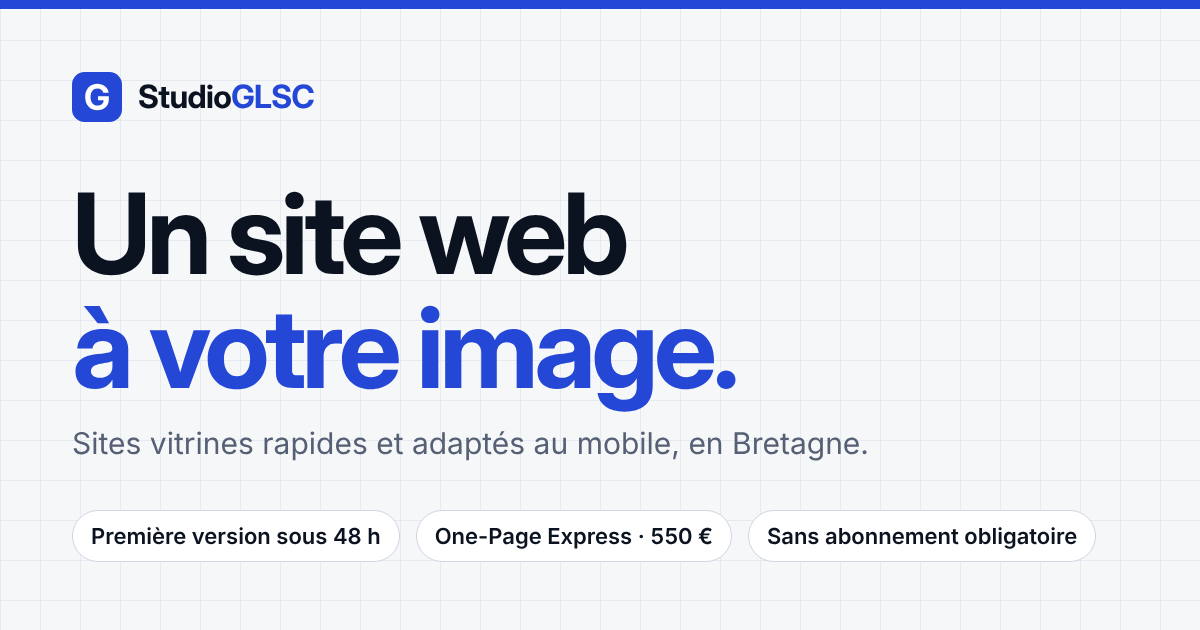
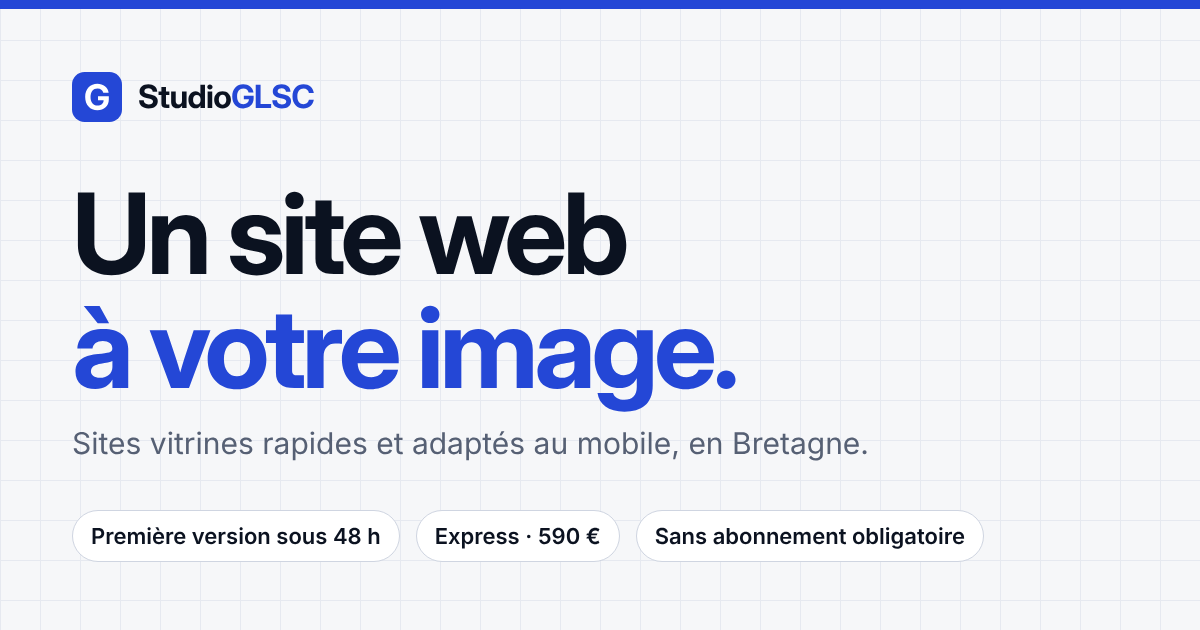
Offre : films, tests et documentation alignés sur les nouveaux prix

Changed region(s): [[0.37, 0.8143, 0.8942, 0.9048]]

diff --git a/promo/promo.css b/promo/promo.css
@@ -62,9 +62,10 @@ html, body { width: 1920px; height: 1080px; overflow: hidden; background: #000; 
 /* scène F */
 .prices { position: absolute; left: 120px; right: 120px; top: 330px; display: flex; gap: 36px; }
 .pc { flex: 1; padding: 56px 52px; border-radius: 48px; background: #fff; border: 2px solid var(--line); box-shadow: 0 30px 70px rgba(36,71,214,.12); }
-.pc:first-child { border-color: var(--blue); box-shadow: 0 0 0 10px rgba(36,71,214,.10), 0 40px 90px rgba(36,71,214,.22); }
+.pc { position: relative; } .pc:nth-child(2) { border-color: var(--blue); box-shadow: 0 0 0 10px rgba(36,71,214,.10), 0 40px 90px rgba(36,71,214,.22); }
+.pb { position: absolute; top: -26px; left: 52px; padding: 12px 24px; border-radius: 999px; background: var(--blue); color: #fff; font: 600 28px/1 "Inter"; letter-spacing: .02em; }
 .pn { font: 600 38px/1.1 "ID"; color: var(--muted); letter-spacing: -.02em; } .pv { margin-top: 26px; font: 700 190px/1 "ID"; letter-spacing: -.06em; color: var(--ink); white-space: nowrap; } .pv i { font-style: normal; font-size: 120px; margin-left: 10px; letter-spacing: -.02em; color: var(--blue); } .pv u { text-decoration: none; display: block; font: 600 40px/1 "Inter"; letter-spacing: 0; color: var(--muted); margin-bottom: 8px; }
-.pc:first-child .pv { margin-top: 26px; padding-top: 52px; } .pd { margin-top: 24px; font: 500 34px/1.3 "Inter"; color: var(--muted); }
+.pc:nth-child(-n+2) .pv { margin-top: 26px; padding-top: 52px; } .pd { margin-top: 24px; font: 500 34px/1.3 "Inter"; color: var(--muted); }
 .foot { position: absolute; left: 0; right: 0; bottom: 84px; text-align: center; font: 500 40px/1.3 "Inter"; color: var(--muted); }
 
 /* scène G */
@@ -100,7 +101,7 @@ html.v, html.v body { width: 1080px; height: 1920px; } html.v #stage { width: 10
 .v .mid { font-size: 112px; top: 150px; padding: 0 50px; } .v #eTitle { font-size: 108px; top: 150px; } .v .mid .ln { white-space: normal; }
 .v .cards { top: 470px; height: 1400px; } .v .card { width: 900px; height: 500px; border-radius: 40px; } .v .card .win { height: 300px; left: 20px; right: 20px; top: 20px; border-radius: 24px; } .v .card h3 { top: 336px; font-size: 46px; left: 32px; } .v .card p { top: 396px; font-size: 27px; left: 32px; right: 32px; }
 .v .prices { flex-direction: column; left: 70px; right: 70px; top: 420px; gap: 24px; } .v .pc { padding: 30px 44px; display: grid; grid-template-columns: 1fr auto; align-items: center; column-gap: 24px; }
-.v .pn { grid-column: 1; font-size: 34px; } .v .pd { grid-column: 1; margin-top: 8px; font-size: 28px; } .v .pv { grid-column: 2; grid-row: 1 / span 2; margin: 0; font-size: 130px; text-align: right; } .v .pv u { font-size: 30px; margin-bottom: 0; } .v .pv i { font-size: 80px; } .v .pc:first-child .pv { padding-top: 0; }
+.v .pn { grid-column: 1; font-size: 34px; } .v .pd { grid-column: 1; margin-top: 8px; font-size: 28px; } .v .pv { grid-column: 2; grid-row: 1 / span 2; margin: 0; font-size: 130px; text-align: right; } .v .pv u { font-size: 30px; margin-bottom: 0; } .v .pv i { font-size: 80px; } .v .pc:nth-child(-n+2) .pv { padding-top: 0; } .v .pb { top: -20px; left: 44px; font-size: 24px; padding: 10px 20px; }
 .v .foot { bottom: 150px; font-size: 34px; padding: 0 70px; }
 .v .cta { top: 1060px; font-size: 42px; padding: 30px 40px; gap: 16px; } .v .cta em { font-size: 28px; padding: 10px 16px; } .v .cta .ico { width: 44px; height: 44px; }
 .v .mark { width: 150px; height: 150px; } .v .word { font-size: 138px; } .v .logo { margin-top: -200px; height: 160px; gap: 26px; } .v .tag { top: 1130px; font-size: 48px; padding: 0 60px; } .v .url { top: 1260px; font-size: 40px; }

diff --git a/index.html b/index.html
@@ -25,7 +25,7 @@
   <link rel="preload" href="/assets/fonts/inter-400.woff2" as="font" type="font/woff2" crossorigin>
   <link rel="preload" href="/assets/fonts/inter-display-700.woff2" as="font" type="font/woff2" crossorigin>
   <link rel="stylesheet" href="/assets/studio.css?v=ae4d0bea">
-  <link rel="stylesheet" href="/assets/offres.css?v=f0f5ca21">
+  <link rel="stylesheet" href="/assets/offres.css?v=04af5560">
   <link rel="stylesheet" href="/assets/fx.css?v=e1f2f212">
   <script src="/assets/theme-init.js?v=74add099"></script>
   <script src="/assets/fx.js?v=f253bbf4"></script>
@@ -191,7 +191,7 @@
       </div>
     </section>
 
-    <div class="fx-ticker" aria-hidden="true"><div class="fx-ticker-track"><span>Sites vitrines</span><span>Sur mesure</span><span>Mobile d’abord</span><span>Sans abonnement obligatoire</span><span>E-commerce</span><span>Première version en 48 h</span><span>Réponse directe</span><span>Vous êtes propriétaire</span><span>Bretagne</span></div></div>
+    <div class="fx-ticker" aria-hidden="true"><div class="fx-ticker-track"><span>Sites vitrines</span><span>Sur mesure</span><span>Mobile d’abord</span><span>Sans abonnement obligatoire</span><span>Boutique en ligne</span><span>Première version en 48 h</span><span>Réponse directe</span><span>Vous êtes propriétaire</span><span>Bretagne</span></div></div>
 
     <section id="services" class="section">
       <div class="wrap">
@@ -236,7 +236,7 @@
             <p class="price"><small>dès</small> 990 €</p>
             <p class="price-quote">Sur devis</p>
             <p class="price-desc">Plusieurs pages pour présenter vos services, vos réalisations et vos tarifs, ou moderniser un site existant.</p>
-            <ul class="check-list"><li><svg class="icon" aria-hidden="true"><use href="#i-check"/></svg>Jusqu’à 10 pages (services, réalisations, tarifs, contact…)</li><li><svg class="icon" aria-hidden="true"><use href="#i-check"/></svg>Référencement local et vitesse optimisés</li><li><svg class="icon" aria-hidden="true"><use href="#i-check"/></svg>Fiche Google Business Profile optimisée</li><li><svg class="icon" aria-hidden="true"><use href="#i-check"/></svg>Retouche de vos photos</li><li><svg class="icon" aria-hidden="true"><use href="#i-check"/></svg>3 tours de retouches inclus</li><li><svg class="icon" aria-hidden="true"><use href="#i-check"/></svg>Mesure des visites sans cookies</li></ul>
+            <ul class="check-list"><li><svg class="icon" aria-hidden="true"><use href="#i-check"/></svg>Jusqu’à 10 pages (services, réalisations, tarifs, contact…)</li><li><svg class="icon" aria-hidden="true"><use href="#i-check"/></svg>Référencement local et vitesse optimisés</li><li><svg class="icon" aria-hidden="true"><use href="#i-check"/></svg>Fiche Google Business Profile optimisée</li><li><svg class="icon" aria-hidden="true"><use href="#i-check"/></svg>Retouche de vos photos</li><li><svg class="icon" aria-hidden="true"><use href="#i-check"/></svg>3 tours de retouches inclus</li><li><svg class="icon" aria-hidden="true"><use href="#i-check"/></svg>Mise en ligne accompagnée</li></ul>
             <a class="btn btn-secondary" href="#estimate" data-pick="vitrine">Estimer ma vitrine <svg class="icon" aria-hidden="true"><use href="#i-arrow"/></svg></a>
           </article>
           <article class="price-card reveal" data-d="160">

diff --git a/marque/index.html b/marque/index.html
@@ -105,7 +105,7 @@
         <h1>Une identité simple, <span class="accent">reconnaissable en un coup d’œil.</span></h1>
         <p class="hero-lead">Logos, couleurs, typographie et règles d’usage de StudioGLSC. Tout ce qu’il faut pour représenter le studio avec cohérence : sur un site, une carte de visite, un réseau social ou un document partenaire.</p>
         <div class="btn-row"><a class="btn btn-primary" href="/assets/brand/studioglsc-kit-de-marque.zip" download>Télécharger le kit complet <svg class="icon" aria-hidden="true"><use href="#i-arrow"/></svg></a><a class="btn btn-secondary" href="#logo">Voir les logos</a></div>
-        <p class="hero-note">Kit .zip : SVG, PNG, palette CSS et règles essentielles · 421 Ko</p>
+        <p class="hero-note">Kit .zip : SVG, PNG, palette CSS et règles essentielles · 420 Ko</p>
       </div>
       <div class="bk-hero-art" aria-hidden="true">
         <div class="bk-orbit o1"></div><div class="bk-orbit o2"></div>
@@ -189,7 +189,7 @@
     </div></section>
 
     <section class="section" id="kit"><div class="wrap"><div class="bk-kit reveal">
-      <div><p class="eyebrow">Le kit complet</p><h2>Tout dans <span class="accent">un seul fichier.</span></h2><p class="hero-lead">Logos en SVG et PNG, palette CSS, avatar, bannière, image de partage et rappel des règles. 421 Ko.</p><ul class="bk-contents"><li>10 logos vectoriels (SVG)</li><li>8 images (PNG)</li><li>Variables CSS de la palette</li><li>Mémo des règles d’usage</li></ul></div>
+      <div><p class="eyebrow">Le kit complet</p><h2>Tout dans <span class="accent">un seul fichier.</span></h2><p class="hero-lead">Logos en SVG et PNG, palette CSS, avatar, bannière, image de partage et rappel des règles. 420 Ko.</p><ul class="bk-contents"><li>10 logos vectoriels (SVG)</li><li>8 images (PNG)</li><li>Variables CSS de la palette</li><li>Mémo des règles d’usage</li></ul></div>
       <div class="bk-kit-cta"><a class="btn btn-primary btn-big" href="/assets/brand/studioglsc-kit-de-marque.zip" download>Télécharger le kit <svg class="icon" aria-hidden="true"><use href="#i-arrow"/></svg></a><p class="muted">Une question sur l’utilisation de la marque ? <a href="mailto:pro@glsc.fr?subject=Utilisation%20de%20la%20marque%20StudioGLSC">pro@glsc.fr</a></p></div>
     </div></div></section>
     <section class="section cta-band-wrap"><div class="wrap"><div class="cta-band">

diff --git a/promo/index.html b/promo/index.html
@@ -3,7 +3,7 @@
 <head>
 <meta charset="utf-8">
 <title>StudioGLSC — film promotionnel</title>
-<link rel="stylesheet" href="promo.css?v=36389946">
+<link rel="stylesheet" href="promo.css?v=09199e73">
 </head>
 <body>
 <div id="stage">
@@ -50,11 +50,11 @@
     <div class="grid"></div><div class="glow g2"></div>
     <h2 class="big mid" id="fTitle"><span class="ln">Un prix clair.</span></h2>
     <div class="prices" id="fPrices">
-      <div class="pc"><p class="pn">One-Page Express</p><p class="pv"><b data-v="550">0</b><i>€</i></p><p class="pd">Une page sur mesure, en 48 h</p></div>
-      <div class="pc"><p class="pn">Refonte &amp; multi-pages</p><p class="pv"><u>dès</u><b data-v="750">0</b><i>€</i></p><p class="pd">Sur devis</p></div>
-      <div class="pc"><p class="pn">E-commerce</p><p class="pv"><u>dès</u><b data-v="950">0</b><i>€</i></p><p class="pd">Catalogue, panier, paiement</p></div>
+      <div class="pc"><p class="pn">Express</p><p class="pv"><b data-k="express">0</b><i>€</i></p><p class="pd">Une page sur mesure, en 48 h</p></div>
+      <div class="pc"><span class="pb">Le plus choisi</span><p class="pn">Pack Lancement</p><p class="pv"><b data-k="pack">0</b><i>€</i></p><p class="pd">Site + fiche Google + visuels</p></div>
+      <div class="pc"><p class="pn">Vitrine</p><p class="pv"><u>dès</u><b data-k="vitrine">0</b><i>€</i></p><p class="pd">Plusieurs pages, sur devis</p></div>
     </div>
-    <p class="foot" id="fFoot">Abonnement en option · 50 € / mois &nbsp;—&nbsp; Vous restez propriétaire de votre site.</p>
+    <p class="foot" id="fFoot"></p>
   </section>
 
   <section class="sc dark" id="sG">
@@ -82,6 +82,7 @@
   <div class="iris" id="iris"></div>
   <div class="fade" id="fade"></div>
 </div>
-<script src="promo.js?v=f6a7332f"></script>
+<script src="../assets/offres.js?v=7690aaf4"></script>
+<script src="promo.js?v=942cd1b9"></script>
 </body>
 </html>

diff --git a/promo/court.js b/promo/court.js
@@ -21,6 +21,9 @@
     ? { hx: 0, hy: 330, hs: 1.12, fanY: 1380, fanC: 1.0, fanS: .8, fanX: 345 }
     : { hx: 480, hy: 0, hs: 1, fanY: 718, fanC: .8, fanS: .68, fanX: 520 };
 
+  const O = window.OFFRES, eur = (n) => String(n).replace(/\B(?=(\d{3})+(?!\d))/g, '\u00a0') + '\u00a0€';
+  [...$('#cChips').children].forEach((c, i) => { c.textContent = [`Express ${eur(O.express)}`, `Vitrine dès ${eur(O.vitrine[0][0])}`, `Boutique dès ${eur(O.boutique[0][0])}`][i]; });
+  $('#cFoot').textContent = `Sérénité dès ${eur(O.serenite.essentiel.month)} / mois  ·  Parrainage : ${eur(O.filleul)} offerts`;
   const META = {};
   const tf = (el, o) => {
     el.style.transform = `translate3d(${o.x || 0}px,${o.y || 0}px,${o.z || 0}px) rotateX(${o.rx || 0}deg) rotateY(${o.ry || 0}deg) rotateZ(${o.r || 0}deg) scale(${o.s == null ? 1 : o.s})`;
@@ -98,10 +101,9 @@
 
     /* ===== 3 · le prix ===== */
     const cl = t - T.C, pp = eo4(P(cl, .55, 2.1)), pop = spring(P(cl, .3, 1.3));
-    $('#cVal').textContent = Math.round(550 * pp);
+    $('#cVal').textContent = Math.round(O.pack * pp);
     tf($('#cKick'), { y: (1 - eo3(P(cl, .4, 1))) * -20, o: eo3(P(cl, .4, 1)) });
     tf($('#cPrice'), { s: lerp(.82, 1, pop), o: eo3(P(cl, .3, .8)), y: (1 - eo4(P(cl, .3, 1.2))) * 60 });
-    $('#cPrice').querySelector('u').style.opacity = eo3(P(cl, 1.6, 2.2));
     tf($('#cLabel'), { y: (1 - eo4(P(cl, 2.0, 2.8))) * 40, o: eo3(P(cl, 2.0, 2.8)), b: (1 - eo3(P(cl, 2.0, 2.8))) * 10 });
     [...$('#cChips').children].forEach((c, i) => { const a = 2.8 + i * .35, p = expo(P(cl, a, a + .9)); tf(c, { y: (1 - p) * 60, s: lerp(.92, 1, p), o: eo3(P(cl, a, a + .5)) }); });
     tf($('#cFoot'), { o: eo3(P(cl, 3.5, 4.1)) * (1 - eio(P(t, T.D - .5, T.D + .1))), y: (1 - eo3(P(cl, 3.5, 4.1))) * 20 });

diff --git a/promo/court.html b/promo/court.html
@@ -3,8 +3,8 @@
 <head>
 <meta charset="utf-8">
 <title>StudioGLSC — film court</title>
-<link rel="stylesheet" href="promo.css?v=36389946">
-<link rel="stylesheet" href="court.css?v=5e7324b5">
+<link rel="stylesheet" href="promo.css?v=09199e73">
+<link rel="stylesheet" href="court.css?v=5e3f88c4">
 </head>
 <body>
 <div id="stage">
@@ -31,11 +31,11 @@
   <!-- 3 · prix (clair) -->
   <section class="sc light" id="sC">
     <div class="grid"></div><div class="glow g2"></div>
-    <p class="kick c" id="cKick">Un prix clair</p>
-    <p class="bp" id="cPrice"><u>dès</u><b id="cVal">0</b><i>€</i></p>
-    <p class="bl" id="cLabel"><strong>One-Page Express</strong><span>Votre site, livré en 48 h.</span></p>
-    <div class="chips" id="cChips"><span>Refonte &amp; multi-pages dès 750 €</span><span>E-commerce dès 950 €</span></div>
-    <p class="foot" id="cFoot">Abonnement en option · 50 € / mois</p>
+    <p class="kick c" id="cKick">Le plus choisi</p>
+    <p class="bp" id="cPrice"><b id="cVal">0</b><i>€</i></p>
+    <p class="bl" id="cLabel"><strong>Pack Lancement</strong><span>Votre site, votre fiche Google et vos visuels.</span></p>
+    <div class="chips" id="cChips"><span></span><span></span><span></span></div>
+    <p class="foot" id="cFoot"></p>
   </section>
 
   <!-- 4 · logo (sombre) -->
@@ -51,6 +51,7 @@
 
   <div class="fade" id="fade"></div>
 </div>
-<script src="court.js?v=ef117acc"></script>
+<script src="../assets/offres.js?v=7690aaf4"></script>
+<script src="court.js?v=ae79bd17"></script>
 </body>
 </html>

diff --git a/promo/promo.js b/promo/promo.js
@@ -20,6 +20,9 @@
   const T = { A: 0, B: 4.2, C: 10.4, D: 18.6, E: 23.6, F: 30.4, G: 36.6, H: 40.3 };
   window.CUTS = Object.values(T).slice(1);
 
+  const O = window.OFFRES, PRICE = { express: O.express, pack: O.pack, vitrine: O.vitrine[0][0], boutique: O.boutique[0][0] };
+  const eur = (n) => String(n).replace(/\B(?=(\d{3})+(?!\d))/g, '\u00a0') + '\u00a0€';
+  $('#fFoot').textContent = `Boutique dès ${eur(PRICE.boutique)}  ·  Sérénité dès ${eur(O.serenite.essentiel.month)} / mois  ·  Parrainage : ${eur(O.filleul)} offerts`;
   const META = {};
   const SHOTS = ['home', 'restaurant', 'coiffeur', 'photographe', 'gite', 'club', 'btp'];
   const tf = (el, o) => {
@@ -154,7 +157,7 @@
     words(wF, t, T.F + .6, { stagger: .12 });
     [...$('#fPrices').children].forEach((pc, i) => {
       const a = T.F + 1.1 + i * .38, p = expo(P(t, a, a + 1.0)); tf(pc, { y: (1 - p) * 120, o: eo3(P(t, a, a + .5)), s: lerp(.94, 1, p), b: (1 - p) * 8 });
-      const b = $('b', pc), v = +b.dataset.v; b.textContent = Math.round(v * eo4(P(t, a + .25, a + 1.6)));
+      const b = $('b', pc), v = PRICE[b.dataset.k]; b.textContent = Math.round(v * eo4(P(t, a + .25, a + 1.6)));
     });
     tf($('#fFoot'), { o: eo3(P(t, T.F + 3.2, T.F + 4)), y: (1 - eo3(P(t, T.F + 3.2, T.F + 4))) * 30 });
     out($('#fPrices'), t, 35.9, 36.6, -50); out($('#fTitle'), t, 35.9, 36.6, -40); out($('#fFoot'), t, 35.9, 36.6, 20);

diff --git a/promo/court.css b/promo/court.css
@@ -9,7 +9,7 @@
 .bl { position: absolute; left: 0; right: 0; top: 690px; text-align: center; }
 .bl strong { display: block; font: 700 64px/1.1 "ID"; letter-spacing: -.03em; color: var(--ink); } .bl span { display: block; margin-top: 14px; font: 500 44px/1.3 "Inter"; color: var(--muted); }
 .chips { position: absolute; left: 0; right: 0; top: 880px; display: flex; justify-content: center; gap: 24px; }
-.chips span { padding: 22px 38px; border-radius: 999px; background: #fff; border: 2px solid var(--line); font: 600 36px/1 "Inter"; color: var(--ink); box-shadow: 0 20px 50px rgba(36,71,214,.12); }
+.chips span { padding: 22px 34px; border-radius: 999px; background: #fff; border: 2px solid var(--line); font: 600 36px/1 "Inter"; color: var(--ink); box-shadow: 0 20px 50px rgba(36,71,214,.12); }
 .foot { bottom: 56px; font-size: 34px; }
 
 /* ---------- vertical ---------- */

diff --git a/assets/offres.css b/assets/offres.css
@@ -42,3 +42,5 @@
   .pack { grid-template-columns: 1.05fr .95fr; gap: 48px; align-items: center; }
   .opts-grid { grid-template-columns: repeat(4, minmax(0, 1fr)); } .opts-grid li { grid-template-columns: 1fr; } .opt-price { order: -1; }
 }
+.pricing-label { margin-top: 56px; } .section-head + .pricing-label { margin-top: 0; }
+.plan .badge { align-self: flex-start; }

diff --git a/README.md b/README.md
@@ -35,6 +35,10 @@ Le formulaire pose trois questions (activité, besoin, délai) puis demande les 
 
 Sur le serveur, en root : `curl -fsSL https://raw.githubusercontent.com/gabinlsc/glsc-studio/main/deploy.sh | sudo bash` (ajouter `-s -- <branche>` pour une autre branche). Le script lit le dossier du site dans nginx, sauvegarde l'existant dans `/var/backups/glsc`, vérifie que le site répond et revient en arrière sinon.
 
+## Offre et prix
+
+Tout ce qui touche à l'offre (gammes Express, Vitrine, Boutique, Pack Lancement, abonnements Sérénité, options à la carte, parrainage) vient d'un seul fichier : `tools/content/offres.mjs`. `node tools/build-site.mjs` en génère la section « Offres » de l'accueil, l'estimateur, la FAQ, les choix du formulaire, les données structurées, les pages métiers, villes et blog (jetons `{{express}}`, `{{pack}}`…), les articles 3 et 10 des CGV et `assets/offres.js` (lu par l'estimateur et par les films). Pour changer un prix : le modifier dans ce fichier, relancer le build, puis refaire les films (`promo/`). Le service de demandes du portfolio (`deploy/studio/server.mjs`, liste `SERVICES`) doit accepter les noms de besoins de `SERVICES` dans `offres.mjs`.
+
 ## Pages de contenu et référencement
 
 `node tools/build-site.mjs` régénère : à propos, une page par métier, une page par ville, le blog, le plan du site (`sitemap.xml`), l'index de recherche et les colonnes de liens du pied de page (dans `index.html`, entre les repères `@footer-cols`). L'en-tête, le pied de page et les icônes viennent d'`index.html` : on ne les maintient qu'à un seul endroit.

diff --git a/promo/README.md b/promo/README.md
@@ -17,4 +17,4 @@ CHROMIUM_PATH=… node promo/render.mjs promo/dist/studioglsc-court.mp4 --audio 
 CHROMIUM_PATH=… node promo/render.mjs --frames 5,12.5,41 /tmp/controle   # images fixes pour vérifier
 ```
 
-Pour changer un texte, un prix ou une durée : modifier `index.html` / `promo.js` (les instants des scènes sont dans l'objet `T`, les coupes de la musique dans `audio.py`). Les prix du film suivent le site : 550 €, dès 750 €, dès 950 €.
+Pour changer un texte, un prix ou une durée : modifier `index.html` / `promo.js` (les instants des scènes sont dans l'objet `T`, les coupes de la musique dans `audio.py`). Les prix des films suivent le site : ils sont lus dans `assets/offres.js`, généré par `node tools/build-site.mjs` depuis `tools/content/offres.mjs`. Après un changement de prix, relancer le build puis refaire les films.
